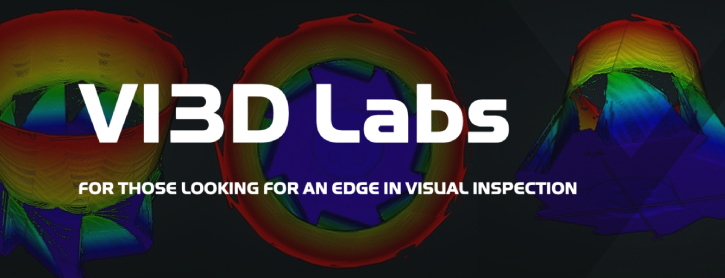
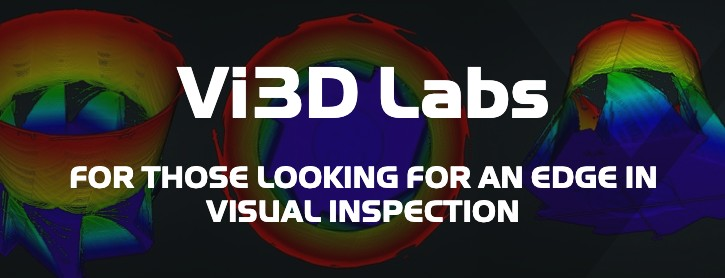
VI3D to Vi3D on all pages

Changed region(s): [[0.091, 0.2302, 0.7586, 0.518], [0.091, 0.5755, 0.9103, 0.8058]]

diff --git a/news/index.html b/news/index.html
@@ -38,7 +38,7 @@
               type="img"
               class="header-logo"
               src="../assets/images/vi3dLogo.png"
-              alt="VI3D Labs logo"
+              alt="Vi3D Labs logo"
           /></a>
         </div>
 
@@ -128,7 +128,7 @@
 
     <div class="news container">
       <div class="linkedinWidget container">
-        <h1>VI3D News</h1>
+        <h1>Vi3D News</h1>
         <!-- <div>
           <iframe
             src="https://www.linkedin.com/embed/feed/update/urn:li:share:7313217603911524354?collapsed=1"
@@ -143,7 +143,7 @@
       <div class="newsItem">
         <h3 class="newsHeading">PANNDT 2025</h3>
         <p class="newsContent">
-          VI3D Labs will be presenting at the PANNDT Conference on Thursday June
+          Vi3D Labs will be presenting at the PANNDT Conference on Thursday June
           12, 2025 at 11:30 am est.
           <br />
           <br />
@@ -166,16 +166,16 @@
           Developed for industrial environments, the system is engineered to
           meet the highest quality standards. Its design prioritizes ease of use
           while delivering high-resolution data capture for detailed analysis.
-          Consistency and precision are ensured under VI3D Labs' ISO 9001:2015
+          Consistency and precision are ensured under Vi3D Labs' ISO 9001:2015
           certification.
         </p>
       </div>
       <div class="newsItem">
         <h3 class="newsHeading">
-          VI3D Labs Inc. Achieves ISO 9001:2015 Certification
+          Vi3D Labs Inc. Achieves ISO 9001:2015 Certification
         </h3>
         <p class="newsContent">
-          VI3D Labs Inc. is proud to announce that, as of January 2025, we have
+          Vi3D Labs Inc. is proud to announce that, as of January 2025, we have
           officially achieved ISO 9001:2015 certification for our Quality
           Management System (QMS). This significant milestone reflects our
           continued commitment to delivering high-quality inspection
@@ -186,20 +186,20 @@
           ISO 9001:2015 is an internationally recognized standard that sets out
           the criteria for a quality management system, emphasizing risk-based
           thinking, customer satisfaction, continuous improvement, and strong
-          leadership. Earning this certification affirms that VI3D Labs operates
+          leadership. Earning this certification affirms that Vi3D Labs operates
           with a high degree of process consistency, traceability, and a
           customer-focused approach.
           <br />
           <br />
           “Achieving ISO 9001 certification is an important step forward for our
-          company,” said Chris Bertoni, Co-Founder of VI3D Labs Inc. “It
+          company,” said Chris Bertoni, Co-Founder of Vi3D Labs Inc. “It
           validates the rigorous quality practices we&#39;ve put in place and
           underscores our dedication to delivering reliable, high-performance
           systems like EdgeSpec. Our clients can be confident that we meet the
           highest standards in our industry.”
           <br />
           <br />
-          This certification applies to all aspects of VI3D Labs' operations,
+          This certification applies to all aspects of Vi3D Labs' operations,
           including the design, development, Services and support of our
           advanced 3D laser scanning solutions. It also reinforces our ongoing
           mission: to provide precise, easy-to-use inspection technology that
@@ -207,7 +207,7 @@
           production.
           <br />
           <br />
-          As VI3D Labs continues to grow and innovate, ISO 9001:2015
+          As Vi3D Labs continues to grow and innovate, ISO 9001:2015
           certification provides a strong foundation for future advancements and
           partnerships. We remain committed to quality, integrity, and
           continuous improvement in everything we do.
@@ -219,7 +219,7 @@
           <span class="bold">University of Alberta</span>
           <br />
           <br />
-          VI3D Labs is working with the University of Alberta on exciting space
+          Vi3D Labs is working with the University of Alberta on exciting space
           research using data from the European Space Agency&#39;s Swarm
           satellites. These satellites measure electric and magnetic fields
           around Earth very precisely. With this data, we can learn more about
@@ -255,7 +255,7 @@
             type="img"
             class="header-logo"
             src="../assets/images/vLogo.png"
-            alt="VI3D Labs logo"
+            alt="Vi3D Labs logo"
         /></a>
       </div>
       <!-- right -->
@@ -270,7 +270,7 @@
           <a
             href="https://ca.linkedin.com/company/vi3d-labs-inc"
             target="_blank"
-            >VI3D Labs Inc</a
+            >Vi3D Labs Inc</a
           >
         </div>
         <br />
@@ -294,7 +294,7 @@
       </div>
     </div>
     <footer class="robot">
-      <div>COPYRIGHT © 2023 - VI3D LABS INC.</div>
+      <div>COPYRIGHT © 2023 - Vi3D LABS INC.</div>
       <div>ISO 9001:2015 CERTIFIED</div>
     </footer>
     <script src="../index.js"></script>

diff --git a/about/index.html b/about/index.html
@@ -38,7 +38,7 @@
               type="img"
               class="header-logo"
               src="../assets/images/vi3dLogo.png"
-              alt="VI3D Labs logo"
+              alt="Vi3D Labs logo"
           /></a>
         </div>
 
@@ -129,7 +129,7 @@
       <div id="history">
         <h2>History</h2>
         <p>
-          VI3D Labs was established in 2017 with a clear mission: to transform
+          Vi3D Labs was established in 2017 with a clear mission: to transform
           how visual and surface inspections are performed across industrial
           sectors. The idea began with a fundamental question: what change could
           be made to inspection processes that would have the biggest impact?
@@ -143,7 +143,7 @@
           of industrial inspection tools.
           <br />
           <br />
-          At VI3D Labs, our development journey has been driven by a commitment
+          At Vi3D Labs, our development journey has been driven by a commitment
           to rethink how visual and surface inspections are performed in
           industrial environments. Starting with a bold idea and deep domain
           knowledge in laser and visual technologies, we set out to build tools
@@ -186,7 +186,7 @@
       <div id="experience">
         <h2>Experience</h2>
         <p>
-          With over a decade of experience, VI3D Labs and its leadership team
+          With over a decade of experience, Vi3D Labs and its leadership team
           have delivered specialized nuclear maintenance and inspection services
           across Canada and the United States, supporting field operations. Our
           expertise includes high-precision visual inspection, laser alignment
@@ -221,7 +221,7 @@
             type="img"
             class="header-logo"
             src="../assets/images/vLogo.png"
-            alt="VI3D Labs logo"
+            alt="Vi3D Labs logo"
         /></a>
       </div>
       <!-- right -->
@@ -236,7 +236,7 @@
           <a
             href="https://ca.linkedin.com/company/vi3d-labs-inc"
             target="_blank"
-            >VI3D Labs Inc</a
+            >Vi3D Labs Inc</a
           >
         </div>
         <br />
@@ -260,7 +260,7 @@
       </div>
     </div>
     <footer class="robot">
-      <div>COPYRIGHT © 2023 - VI3D LABS INC.</div>
+      <div>COPYRIGHT © 2023 - Vi3D LABS INC.</div>
       <div>ISO 9001:2015 CERTIFIED</div>
     </footer>
     <script src="../index.js"></script>

diff --git a/index.html b/index.html
@@ -4,7 +4,7 @@
     <meta charset="UTF-8" />
     <meta http-equiv="X-UA-Compatible" content="IE=edge" />
     <meta name="viewport" content="width=device-width, initial-scale=1.0" />
-    <title>VI3D Labs Inc</title>
+    <title>Vi3D Labs Inc</title>
     <link rel="icon" type="img" href="./assets/images/vLogo.png" />
     <link rel="stylesheet" type="text/css" href="styles.css" />
     <link rel="preconnect" href="https://fonts.googleapis.com" />
@@ -34,7 +34,7 @@
               type="img"
               class="header-logo"
               src="../assets/images/vi3dLogo.png"
-              alt="VI3D Labs logo"
+              alt="Vi3D Labs logo"
           /></a>
         </div>
         <ul class="navbarUL fullNav">
@@ -217,7 +217,7 @@
           </div>
           <div>
             <p class="visP">
-              VI3DLabs has developed a new core technology for the purpose of
+              Vi3DLabs has developed a new core technology for the purpose of
               remotely scanning objects and surfaces in hazardous work
               environments and confined spaces.
               <br />
@@ -311,7 +311,7 @@
               type="img"
               class="header-logo"
               src="./assets/images/vLogo.png"
-              alt="VI3D Labs logo"
+              alt="Vi3D Labs logo"
           /></a>
         </div>
         <!-- right -->
@@ -326,7 +326,7 @@
             <a
               href="https://ca.linkedin.com/company/vi3d-labs-inc"
               target="_blank"
-              >VI3D Labs Inc</a
+              >Vi3D Labs Inc</a
             >
           </div>
           <br />
@@ -351,7 +351,7 @@
       </div>
     </div>
     <footer class="robot">
-      <div>COPYRIGHT © 2023 - VI3D LABS INC.</div>
+      <div>COPYRIGHT © 2023 - Vi3D LABS INC.</div>
       <div>ISO 9001:2015 CERTIFIED</div>
     </footer>
     <script src="index.js"></script>

diff --git a/careers/index.html b/careers/index.html
@@ -38,7 +38,7 @@
               type="img"
               class="header-logo"
               src="../assets/images/vi3dLogo.png"
-              alt="VI3D Labs logo"
+              alt="Vi3D Labs logo"
           /></a>
         </div>
 
@@ -130,8 +130,8 @@
     <div id="careers" class="container robot">
       <div id="form">
         <p>
-          Do you have experience in Engineering, Nuclear Services or
-          Software Development that you believe could make a difference on our team?
+          Do you have experience in Engineering, Nuclear Services or Software
+          Development that you believe could make a difference on our team?
           <br /><br />
           We would love to hear about it.
           <br /><br />
@@ -156,7 +156,7 @@
             type="img"
             class="header-logo"
             src="../assets/images/vLogo.png"
-            alt="VI3D Labs logo"
+            alt="Vi3D Labs logo"
         /></a>
       </div>
       <!-- right -->
@@ -171,7 +171,7 @@
           <a
             href="https://ca.linkedin.com/company/vi3d-labs-inc"
             target="_blank"
-            >VI3D Labs Inc</a
+            >Vi3D Labs Inc</a
           >
         </div>
         <br />
@@ -195,7 +195,7 @@
       </div>
     </div>
     <footer class="robot">
-      <div>COPYRIGHT © 2023 - VI3D LABS INC.</div>
+      <div>COPYRIGHT © 2023 - Vi3D LABS INC.</div>
       <div>ISO 9001:2015 CERTIFIED</div>
     </footer>
     <script src="../index.js"></script>

diff --git a/products/index.html b/products/index.html
@@ -38,7 +38,7 @@
               type="img"
               class="header-logo"
               src="../assets/images/vi3dLogo.png"
-              alt="VI3D Labs logo"
+              alt="Vi3D Labs logo"
           /></a>
         </div>
 
@@ -559,7 +559,7 @@
             type="img"
             class="header-logo"
             src="../assets/images/vLogo.png"
-            alt="VI3D Labs logo"
+            alt="Vi3D Labs logo"
         /></a>
       </div>
       <!-- right -->
@@ -574,7 +574,7 @@
           <a
             href="https://ca.linkedin.com/company/vi3d-labs-inc"
             target="_blank"
-            >VI3D Labs Inc</a
+            >Vi3D Labs Inc</a
           >
         </div>
         <br />
@@ -598,7 +598,7 @@
       </div>
     </div>
     <footer class="robot">
-      <div>COPYRIGHT © 2023 - VI3D LABS INC.</div>
+      <div>COPYRIGHT © 2023 - Vi3D LABS INC.</div>
       <div>ISO 9001:2015 CERTIFIED</div>
     </footer>
     <script src="../index.js"></script>

diff --git a/services/index.html b/services/index.html
@@ -38,7 +38,7 @@
               type="img"
               class="header-logo"
               src="../assets/images/vi3dLogo.png"
-              alt="VI3D Labs logo"
+              alt="Vi3D Labs logo"
           /></a>
         </div>
 
@@ -206,7 +206,7 @@
             type="img"
             class="header-logo"
             src="../assets/images/vLogo.png"
-            alt="VI3D Labs logo"
+            alt="Vi3D Labs logo"
         /></a>
       </div>
       <!-- right -->
@@ -221,7 +221,7 @@
           <a
             href="https://ca.linkedin.com/company/vi3d-labs-inc"
             target="_blank"
-            >VI3D Labs Inc</a
+            >Vi3D Labs Inc</a
           >
         </div>
         <br />
@@ -245,7 +245,7 @@
       </div>
     </div>
     <footer class="robot">
-      <div>COPYRIGHT © 2023 - VI3D LABS INC.</div>
+      <div>COPYRIGHT © 2023 - Vi3D LABS INC.</div>
       <div>ISO 9001:2015 CERTIFIED</div>
     </footer>
     <script src="../index.js"></script>

diff --git a/styles.css b/styles.css
@@ -32,8 +32,8 @@ h3 {
 }
 
 #linkedin img {
-  width: 40px;
-  height: 35px;
+  /* width: 40px; */
+  height: 25px;
 }
 
 #linkedin a {
